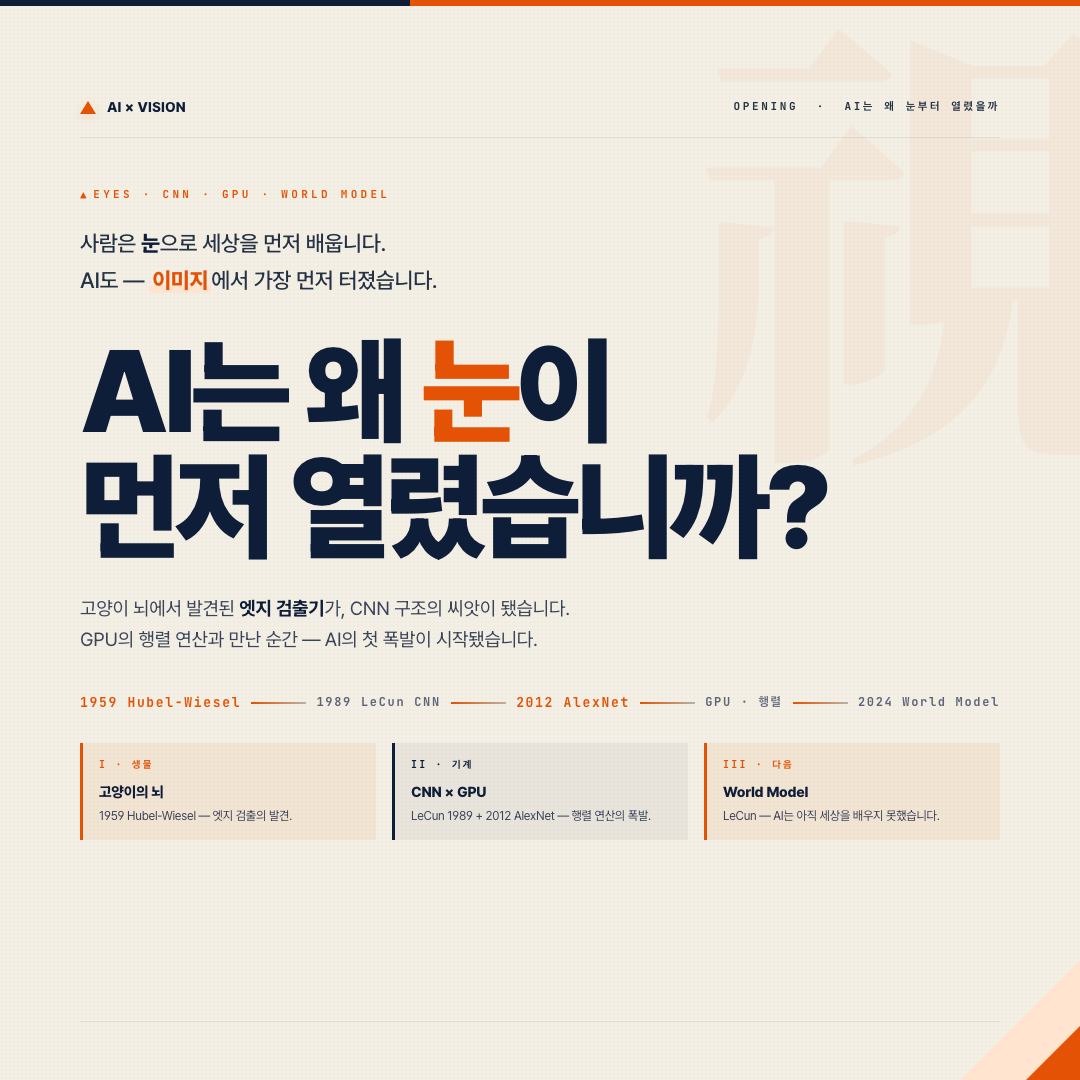
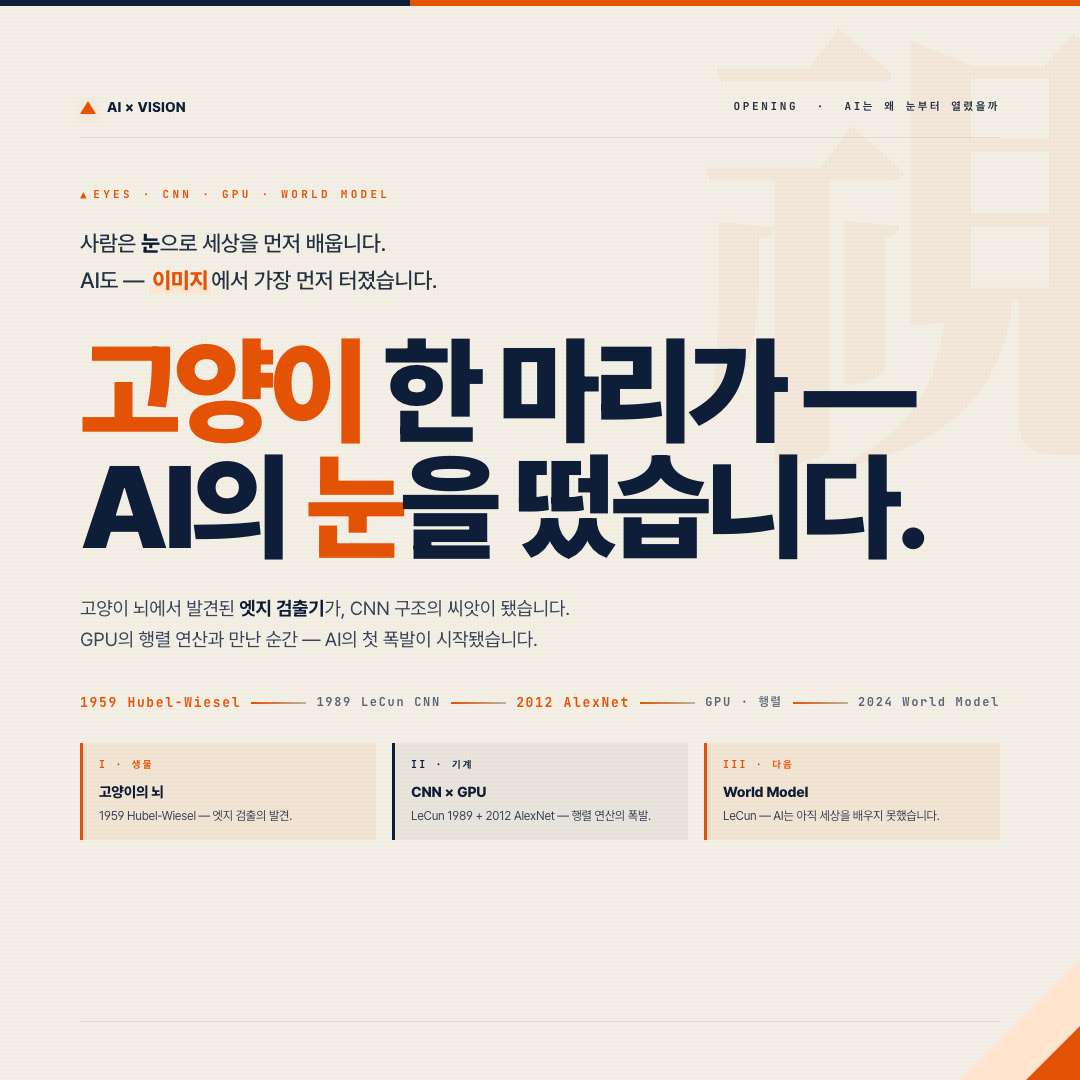
feat: 20·23호 표지 헤드라인 강화 — 고양이/JPEG 비유 직격
- 20호 VISION: 'AI는 왜 눈이 먼저 열렸습니까?' →
  '고양이 한 마리가 — AI의 눈을 떴습니다.'
  (Hubel-Wiesel 실험을 표지에서 바로 환기)
- 23호 COMPRESS: 'AI는 왜 세상을 흐릿하게 봅니까?' →
  'AI의 기억은 — 흐릿한 JPEG입니다.'
  (Ted Chiang의 유명한 비유를 직격)
- _data.json/_data.js subtitle, index.html 카드 자막,
  series/vision.html · compress.html side-sub 동기화
- 표지 PNG 재캡처 (01-cover.png × 2)
- 캐시버스터 v11

Changed region(s): [[0.0611, 0.3056, 0.8556, 0.5194]]

diff --git a/index.html b/index.html
@@ -4,8 +4,8 @@
 <meta name="viewport" content="width=device-width, initial-scale=1" />
 <meta name="description" content="AI라는 거울 앞에 서서 철학·예술·언어·음악·꿈·편향을 다시 묻는 카드뉴스 매거진." />
 <link rel="stylesheet" href="styles/site.css" />
-<script defer src="series/_data.js?v=6"></script>
-<script defer src="styles/book-mode.js?v=10"></script>
+<script defer src="series/_data.js?v=11"></script>
+<script defer src="styles/book-mode.js?v=11"></script>
 </head><body>
 
 <nav class="site-nav">
@@ -322,7 +322,7 @@
       <div class="body">
         <div class="tag">ISSUE 20</div>
         <h3>AI × <em>Vision</em></h3>
-        <div class="subt">AI는 왜 눈부터 열렸을까</div>
+        <div class="subt">고양이 한 마리가 AI의 눈을 떴습니다</div>
         <div class="desc">Hubel-Wiesel 고양이 실험 · LeCun CNN · AlexNet · GPU 행렬연산 · LeCun World Model — 시각이 지능의 시작.</div>
       <div class="cue">Read Issue</div>
       </div>
@@ -361,7 +361,7 @@
       <div class="body">
         <div class="tag">ISSUE 23</div>
         <h3>AI × <em>Compress</em></h3>
-        <div class="subt">AI는 왜 세상을 흐릿하게 보는가</div>
+        <div class="subt">AI의 기억은 흐릿한 JPEG입니다</div>
         <div class="desc">Miller 작업기억 7±2 · 컨텍스트 윈도우 · RAG · Ted Chiang 흐릿한 JPEG · GPU 절약(양자화·KV·MoE) · 유발 하라리 NEXUS — 압축이 만든 인식의 흐릿함.</div>
       <div class="cue">Read Issue</div>
       </div>

diff --git a/series/compress.html b/series/compress.html
@@ -5,7 +5,7 @@
 <link rel="stylesheet" href="https://fonts.googleapis.com/css2?family=JetBrains+Mono:wght@400;500;700&family=Noto+Serif+KR:wght@400;700;900&family=Noto+Sans+KR:wght@300;400;500;700;900&display=swap" />
 <link rel="stylesheet" href="../styles/site.css?v=15" />
 <link rel="stylesheet" href="../styles/magazine.css?v=15" />
-<script defer src="../styles/book-mode.js?v=10"></script></head><body>
+<script defer src="../styles/book-mode.js?v=11"></script></head><body>
 
 <nav class="site-nav">
   <div class="site-nav-inner">
@@ -18,7 +18,7 @@
   <aside class="mag-side">
     <div class="side-kicker">Issue 23</div>
     <h2>AI × <em>Compress</em></h2>
-    <div class="side-sub">AI는 왜 세상을 흐릿하게 보는가 — Miller 작업기억 7±2 · 컨텍스트 윈도우 · RAG · Ted Chiang 흐릿한 JPEG · GPU 절약(양자화·KV·MoE) · 유발 하라리 NEXUS — 압축이 만든 인식의 흐릿함.</div>
+    <div class="side-sub">AI의 기억은 흐릿한 JPEG입니다 — Miller 작업기억 7±2 · 컨텍스트 윈도우 · RAG · Ted Chiang 흐릿한 JPEG · GPU 절약(양자화·KV·MoE) · 유발 하라리 NEXUS — 압축이 만든 인식의 흐릿함.</div>
 
     <div class="progress-outer"><div class="progress-inner" id="progress"></div></div>
 

diff --git a/series/vision.html b/series/vision.html
@@ -5,7 +5,7 @@
 <link rel="stylesheet" href="https://fonts.googleapis.com/css2?family=JetBrains+Mono:wght@400;500;700&family=Noto+Serif+KR:wght@400;700;900&family=Noto+Sans+KR:wght@300;400;500;700;900&display=swap" />
 <link rel="stylesheet" href="../styles/site.css?v=15" />
 <link rel="stylesheet" href="../styles/magazine.css?v=15" />
-<script defer src="../styles/book-mode.js?v=10"></script></head><body>
+<script defer src="../styles/book-mode.js?v=11"></script></head><body>
 
 <nav class="site-nav">
   <div class="site-nav-inner">
@@ -18,7 +18,7 @@
   <aside class="mag-side">
     <div class="side-kicker">Issue 20</div>
     <h2>AI × <em>Vision</em></h2>
-    <div class="side-sub">AI는 왜 눈부터 열렸을까 — Hubel-Wiesel 고양이 실험 · LeCun CNN · AlexNet · GPU 행렬연산 · LeCun World Model — 시각이 지능의 시작.</div>
+    <div class="side-sub">고양이 한 마리가 AI의 눈을 떴습니다 — Hubel-Wiesel 고양이 실험 · LeCun CNN · AlexNet · GPU 행렬연산 · LeCun World Model — 시각이 지능의 시작.</div>
 
     <div class="progress-outer"><div class="progress-inner" id="progress"></div></div>
 

diff --git a/series/_data.js b/series/_data.js
@@ -384,7 +384,7 @@ window.SERIES_DATA = [
     "slug": "vision",
     "name": "Vision",
     "hanja": "視",
-    "subtitle": "AI는 왜 눈부터 열렸을까",
+    "subtitle": "고양이 한 마리가 AI의 눈을 떴습니다",
     "desc": "Hubel-Wiesel 고양이 실험 · LeCun CNN · AlexNet · GPU 행렬연산 · LeCun World Model — 시각이 지능의 시작.",
     "slides": [
       "01-cover.png",
@@ -447,7 +447,7 @@ window.SERIES_DATA = [
     "slug": "compress",
     "name": "Compress",
     "hanja": "縮",
-    "subtitle": "AI는 왜 세상을 흐릿하게 보는가",
+    "subtitle": "AI의 기억은 흐릿한 JPEG입니다",
     "desc": "Miller 작업기억 7±2 · 컨텍스트 윈도우 · RAG · Ted Chiang 흐릿한 JPEG · GPU 절약(양자화·KV·MoE) · 유발 하라리 NEXUS — 압축이 만든 인식의 흐릿함.",
     "slides": [
       "01-cover.png",

diff --git a/series/arena.html b/series/arena.html
@@ -5,7 +5,7 @@
 <link rel="stylesheet" href="https://fonts.googleapis.com/css2?family=JetBrains+Mono:wght@400;500;700&family=Noto+Serif+KR:wght@400;700;900&family=Noto+Sans+KR:wght@300;400;500;700;900&display=swap" />
 <link rel="stylesheet" href="../styles/site.css?v=15" />
 <link rel="stylesheet" href="../styles/magazine.css?v=15" />
-<script defer src="../styles/book-mode.js?v=10"></script></head><body>
+<script defer src="../styles/book-mode.js?v=11"></script></head><body>
 
 <nav class="site-nav">
   <div class="site-nav-inner">

diff --git a/series/arms.html b/series/arms.html
@@ -5,7 +5,7 @@
 <link rel="stylesheet" href="https://fonts.googleapis.com/css2?family=JetBrains+Mono:wght@400;500;700&family=Noto+Serif+KR:wght@400;700;900&family=Noto+Sans+KR:wght@300;400;500;700;900&display=swap" />
 <link rel="stylesheet" href="../styles/site.css?v=15" />
 <link rel="stylesheet" href="../styles/magazine.css?v=15" />
-<script defer src="../styles/book-mode.js?v=10"></script></head><body>
+<script defer src="../styles/book-mode.js?v=11"></script></head><body>
 
 <nav class="site-nav">
   <div class="site-nav-inner">

diff --git a/series/aura.html b/series/aura.html
@@ -5,7 +5,7 @@
 <link rel="stylesheet" href="https://fonts.googleapis.com/css2?family=JetBrains+Mono:wght@400;500;700&family=Noto+Serif+KR:wght@400;700;900&family=Noto+Sans+KR:wght@300;400;500;700;900&display=swap" />
 <link rel="stylesheet" href="../styles/site.css?v=15" />
 <link rel="stylesheet" href="../styles/magazine.css?v=15" />
-<script defer src="../styles/book-mode.js?v=10"></script></head><body>
+<script defer src="../styles/book-mode.js?v=11"></script></head><body>
 
 <nav class="site-nav">
   <div class="site-nav-inner">

diff --git a/series/bias.html b/series/bias.html
@@ -5,7 +5,7 @@
 <link rel="stylesheet" href="https://fonts.googleapis.com/css2?family=JetBrains+Mono:wght@400;500;700&family=Noto+Serif+KR:wght@400;700;900&family=Noto+Sans+KR:wght@300;400;500;700;900&display=swap" />
 <link rel="stylesheet" href="../styles/site.css?v=15" />
 <link rel="stylesheet" href="../styles/magazine.css?v=15" />
-<script defer src="../styles/book-mode.js?v=10"></script></head><body>
+<script defer src="../styles/book-mode.js?v=11"></script></head><body>
 
 <nav class="site-nav">
   <div class="site-nav-inner">

diff --git a/series/bits.html b/series/bits.html
@@ -5,7 +5,7 @@
 <link rel="stylesheet" href="https://fonts.googleapis.com/css2?family=JetBrains+Mono:wght@400;500;700&family=Noto+Serif+KR:wght@400;700;900&family=Noto+Sans+KR:wght@300;400;500;700;900&display=swap" />
 <link rel="stylesheet" href="../styles/site.css?v=15" />
 <link rel="stylesheet" href="../styles/magazine.css?v=15" />
-<script defer src="../styles/book-mode.js?v=10"></script></head><body>
+<script defer src="../styles/book-mode.js?v=11"></script></head><body>
 
 <nav class="site-nav">
   <div class="site-nav-inner">

diff --git a/series/canvas.html b/series/canvas.html
@@ -5,7 +5,7 @@
 <link rel="stylesheet" href="https://fonts.googleapis.com/css2?family=JetBrains+Mono:wght@400;500;700&family=Noto+Serif+KR:wght@400;700;900&family=Noto+Sans+KR:wght@300;400;500;700;900&display=swap" />
 <link rel="stylesheet" href="../styles/site.css?v=15" />
 <link rel="stylesheet" href="../styles/magazine.css?v=15" />
-<script defer src="../styles/book-mode.js?v=10"></script></head><body>
+<script defer src="../styles/book-mode.js?v=11"></script></head><body>
 
 <nav class="site-nav">
   <div class="site-nav-inner">

diff --git a/series/cinema.html b/series/cinema.html
@@ -5,7 +5,7 @@
 <link rel="stylesheet" href="https://fonts.googleapis.com/css2?family=JetBrains+Mono:wght@400;500;700&family=Noto+Serif+KR:wght@400;700;900&family=Noto+Sans+KR:wght@300;400;500;700;900&display=swap" />
 <link rel="stylesheet" href="../styles/site.css?v=15" />
 <link rel="stylesheet" href="../styles/magazine.css?v=15" />
-<script defer src="../styles/book-mode.js?v=10"></script></head><body>
+<script defer src="../styles/book-mode.js?v=11"></script></head><body>
 
 <nav class="site-nav">
   <div class="site-nav-inner">

diff --git a/series/destiny.html b/series/destiny.html
@@ -5,7 +5,7 @@
 <link rel="stylesheet" href="https://fonts.googleapis.com/css2?family=JetBrains+Mono:wght@400;500;700&family=Noto+Serif+KR:wght@400;700;900&family=Noto+Sans+KR:wght@300;400;500;700;900&display=swap" />
 <link rel="stylesheet" href="../styles/site.css?v=15" />
 <link rel="stylesheet" href="../styles/magazine.css?v=15" />
-<script defer src="../styles/book-mode.js?v=10"></script></head><body>
+<script defer src="../styles/book-mode.js?v=11"></script></head><body>
 
 <nav class="site-nav">
   <div class="site-nav-inner">
